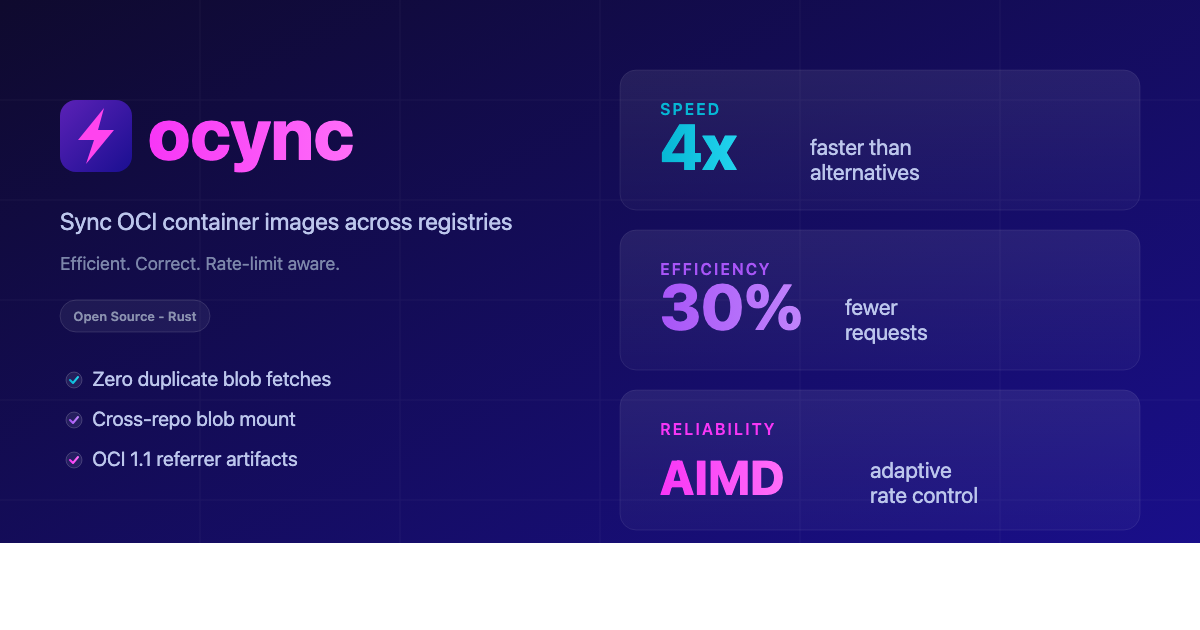
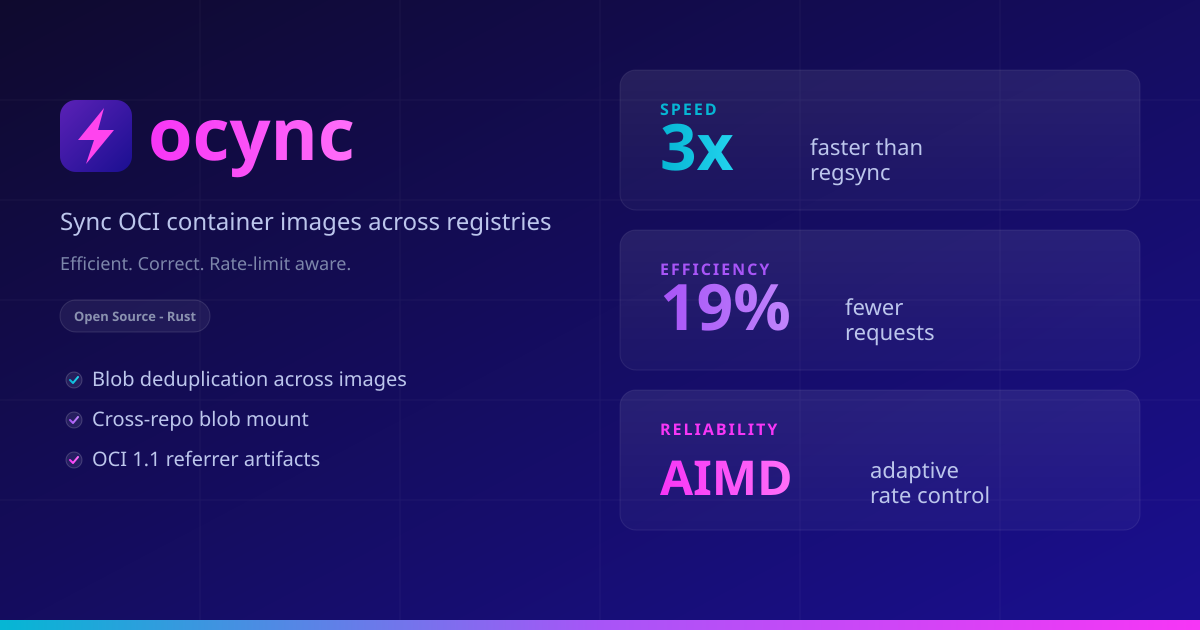
docs: scope the speed and request claims to the competitors and runs measured, and drop the false 429 claim (#210)

diff --git a/README.md b/README.md
@@ -3,7 +3,7 @@
 Sync OCI container images across registries - efficiently.
 
 <p align="center">
-  <img src="docs/public/ecr-banner.png" alt="ocync - 4x faster sync, 30% fewer API requests, adaptive rate control" width="900">
+  <img src="docs/public/ecr-banner.svg" alt="ocync - 3x faster than regsync, 19% fewer requests, adaptive rate control" width="900">
 </p>
 
 [![CI](https://github.com/clowdhaus/ocync/actions/workflows/ci.yml/badge.svg)](https://github.com/clowdhaus/ocync/actions/workflows/ci.yml)
@@ -11,7 +11,7 @@ Sync OCI container images across registries - efficiently.
 [![MSRV](https://img.shields.io/badge/MSRV-1.94-blue.svg)](https://blog.rust-lang.org/2025/06/26/Rust-1.94.0.html)
 [![ECR Public](https://img.shields.io/badge/ECR_Public-clowdhaus%2Focync-ff9900.svg?logo=amazonecs)](https://gallery.ecr.aws/clowdhaus/ocync)
 
-ocync copies container images between OCI registries with blob deduplication, cross-repo mounting, and streaming transfers. On real-world workloads it completes cold syncs 4x faster than comparable tools, with up to 30% fewer API requests, zero duplicate blob fetches across the run, and zero 429s on every benchmarked registry. See [Performance](https://clowdhaus.github.io/ocync/performance) for the full comparison.
+ocync copies container images between OCI registries with blob deduplication, cross-repo mounting, and streaming transfers. In cold syncs of a 55 GB corpus (39 images) to ECR it finished 3.1 to 3.8 times faster than regsync and 2.5 to 5.2 times faster than dregsy, with 19 to 25% fewer requests than regsync and 32 to 39% fewer than dregsy. See [Performance](https://clowdhaus.github.io/ocync/performance) for the conditions and the full comparison.
 
 ocync is purpose-built for one job: efficiently mirroring images from upstream registries (Docker Hub, GHCR, GAR, Chainguard) to a private registry (ECR, GAR, ACR). It is not a build tool, a registry, or a content rewriter - it copies bytes verbatim and lets the registry do its job. Multi-architecture indexes, manifests, blobs, and OCI 1.1 referrers (signatures, SBOMs, attestations) all flow through bit-for-bit.
 

diff --git a/docs/src/content/performance.md b/docs/src/content/performance.md
@@ -1,6 +1,6 @@
 ---
 title: Performance
-description: How ocync achieves 5x faster cold sync and 1-second warm sync than comparable tools with fewer requests and cross-repo blob mounting.
+description: How ocync finishes a cold sync to ECR 3.1 to 3.8 times faster than regsync and 2.5 to 5.2 times faster than dregsy, with fewer requests and cross-repo blob mounting.
 order: 6
 ---
 
@@ -27,6 +27,8 @@ Measured 2026-04-26 on c6in.4xlarge (x86_64, 16 vCPUs, 32 GiB, Up to 50 Gigabit)
 >
 > Referrers calls -- dregsy: 0, regsync: 0, ocync: 51.
 <!-- BENCH:END -->
+
+Six full-corpus cold syncs compared all three tools between 19 and 26 April 2026, on the same instance type, corpus and ECR target. Across them ocync was 3.1 to 3.8 times faster than regsync and 2.5 to 5.2 times faster than dregsy, and made 19 to 25% fewer requests than regsync and 32 to 39% fewer than dregsy. ocync drew 0, 23, 21, 17, 5 and 0 rate-limit 429s, backing off on each; regsync and dregsy drew none. ocync fetched 3 blobs twice in one run and none in the others. ocync's no-change sync took 1.4 to 2.3 s in the four latest runs and about 150 s in the two before, when regsync took 12 to 15 s. Only ECR has been measured as a target.
 
 ## How tools compare
 
